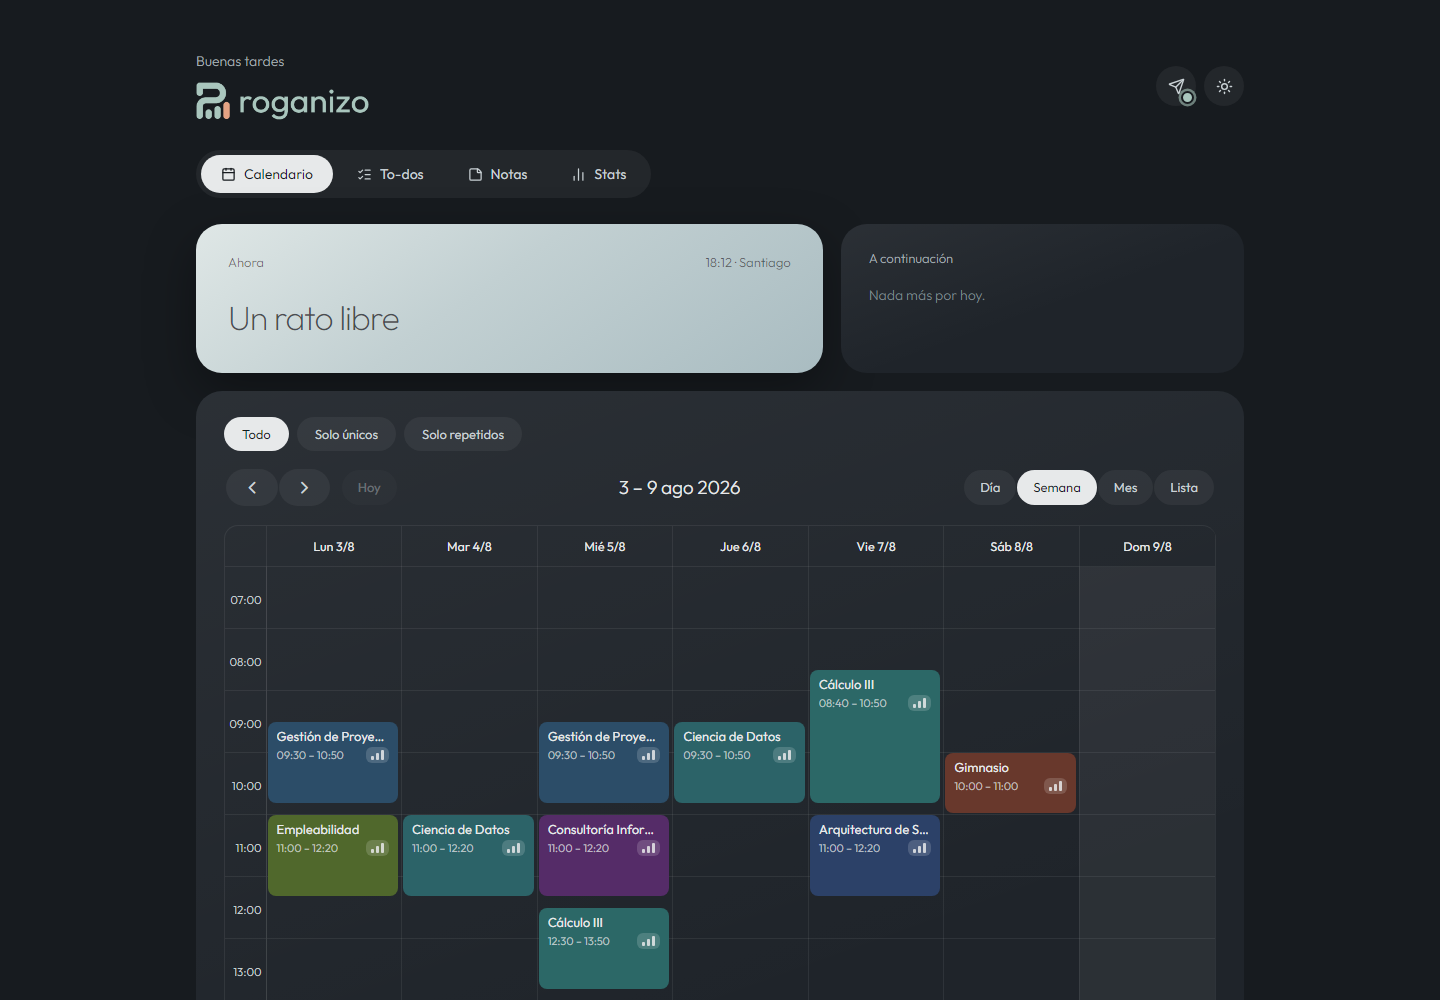
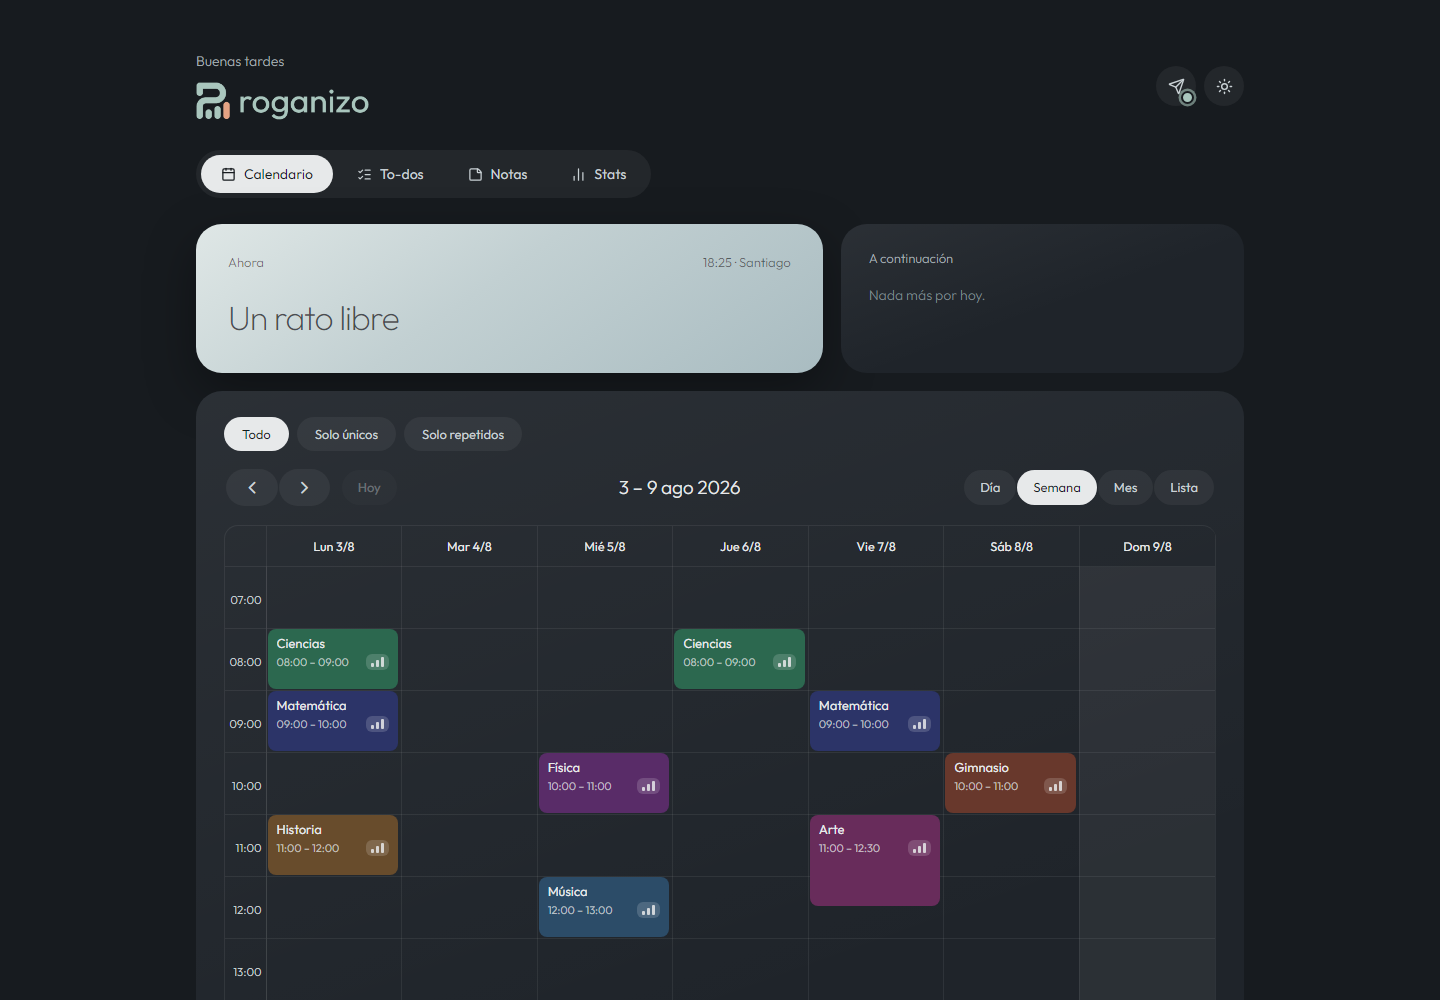
Demo: horario 100% ficticio (sin datos derivados del calendario real)

Changed region(s): [[0.1875, 0.62, 0.6562, 0.992]]

diff --git a/apps/web/src/lib/demo.ts b/apps/web/src/lib/demo.ts
@@ -11,20 +11,20 @@ interface Slot {
   room?: string;
 }
 
+// Horario 100% ficticio (el del mockup de diseño), sin relación con datos reales.
 const SCHEDULE: Slot[] = [
-  { dow: 1, s: "09:30", e: "10:50", title: "Gestión de Proyectos", room: "LC-48" },
-  { dow: 1, s: "11:00", e: "12:20", title: "Empleabilidad", room: "SH-45" },
-  { dow: 2, s: "11:00", e: "12:20", title: "Ciencia de Datos", room: "LC-48" },
-  { dow: 2, s: "16:30", e: "17:30", title: "Estudiar" },
-  { dow: 3, s: "09:30", e: "10:50", title: "Gestión de Proyectos", room: "LC-48" },
-  { dow: 3, s: "11:00", e: "12:20", title: "Consultoría Informática", room: "LC-48" },
-  { dow: 3, s: "12:30", e: "13:50", title: "Cálculo III", room: "SH-31" },
-  { dow: 3, s: "17:40", e: "19:00", title: "Inglés III", room: "E35" },
-  { dow: 4, s: "09:30", e: "10:50", title: "Ciencia de Datos", room: "L35" },
-  { dow: 4, s: "14:00", e: "15:20", title: "Arquitectura de Software", room: "LC-48" },
-  { dow: 4, s: "15:30", e: "16:50", title: "Consultoría Informática", room: "LC-44" },
-  { dow: 5, s: "08:40", e: "10:50", title: "Cálculo III", room: "SC-39" },
-  { dow: 5, s: "11:00", e: "12:20", title: "Arquitectura de Software", room: "LC-48" },
+  { dow: 1, s: "08:00", e: "09:00", title: "Ciencias", room: "A-101" },
+  { dow: 1, s: "09:00", e: "10:00", title: "Matemática", room: "A-102" },
+  { dow: 1, s: "11:00", e: "12:00", title: "Historia", room: "B-201" },
+  { dow: 2, s: "15:00", e: "16:30", title: "Biología", room: "Lab 2" },
+  { dow: 2, s: "16:30", e: "16:50", title: "Almuerzo" },
+  { dow: 2, s: "16:50", e: "18:20", title: "Estudiar" },
+  { dow: 3, s: "10:00", e: "11:00", title: "Física", room: "C-301" },
+  { dow: 3, s: "12:00", e: "13:00", title: "Música", room: "Aula Magna" },
+  { dow: 4, s: "08:00", e: "09:00", title: "Ciencias", room: "A-101" },
+  { dow: 4, s: "14:00", e: "15:30", title: "Inglés", room: "B-105" },
+  { dow: 5, s: "09:00", e: "10:00", title: "Matemática", room: "A-102" },
+  { dow: 5, s: "11:00", e: "12:30", title: "Arte", room: "Taller 1" },
   { dow: 6, s: "10:00", e: "11:00", title: "Gimnasio" },
 ];
 
